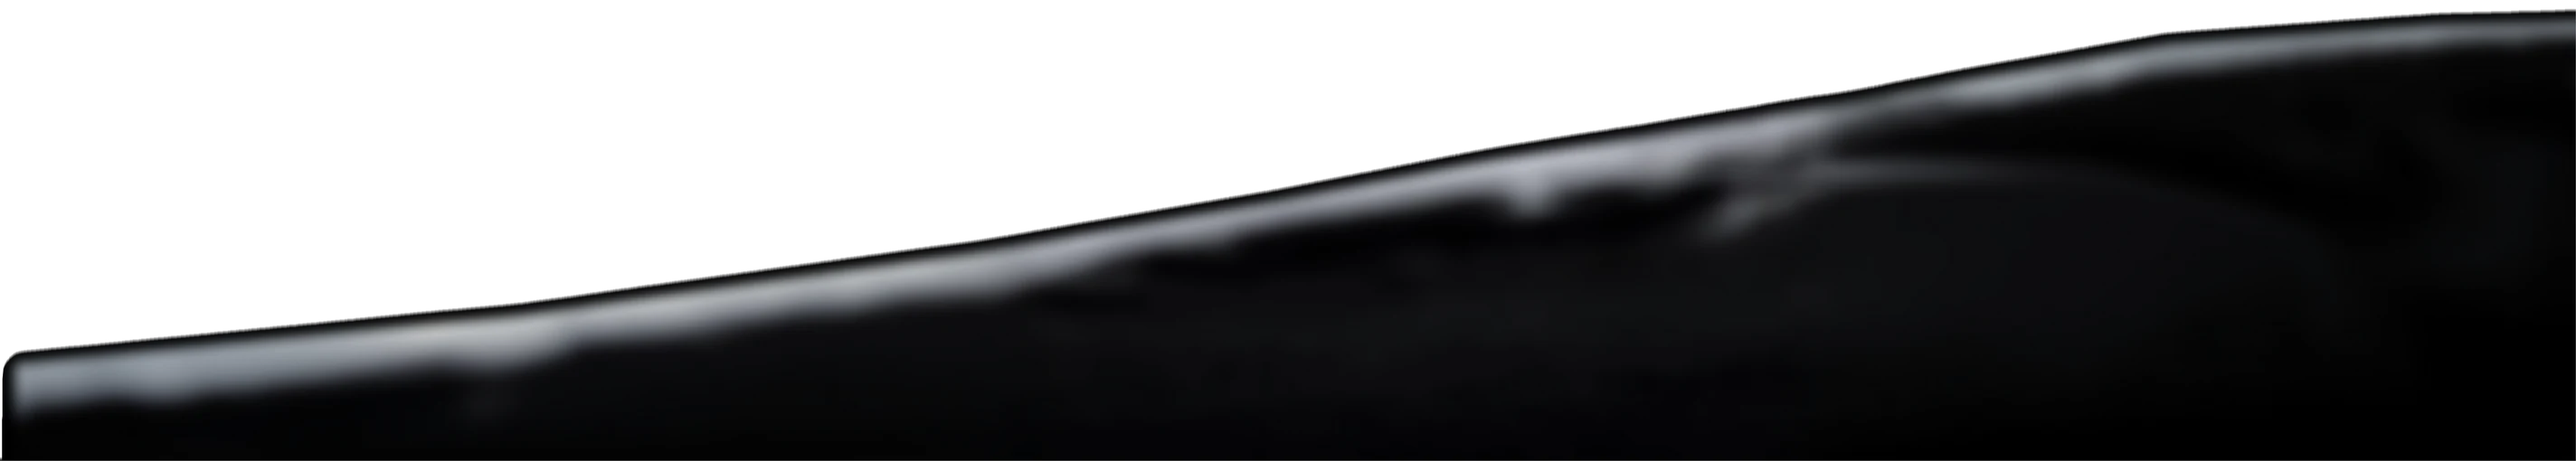
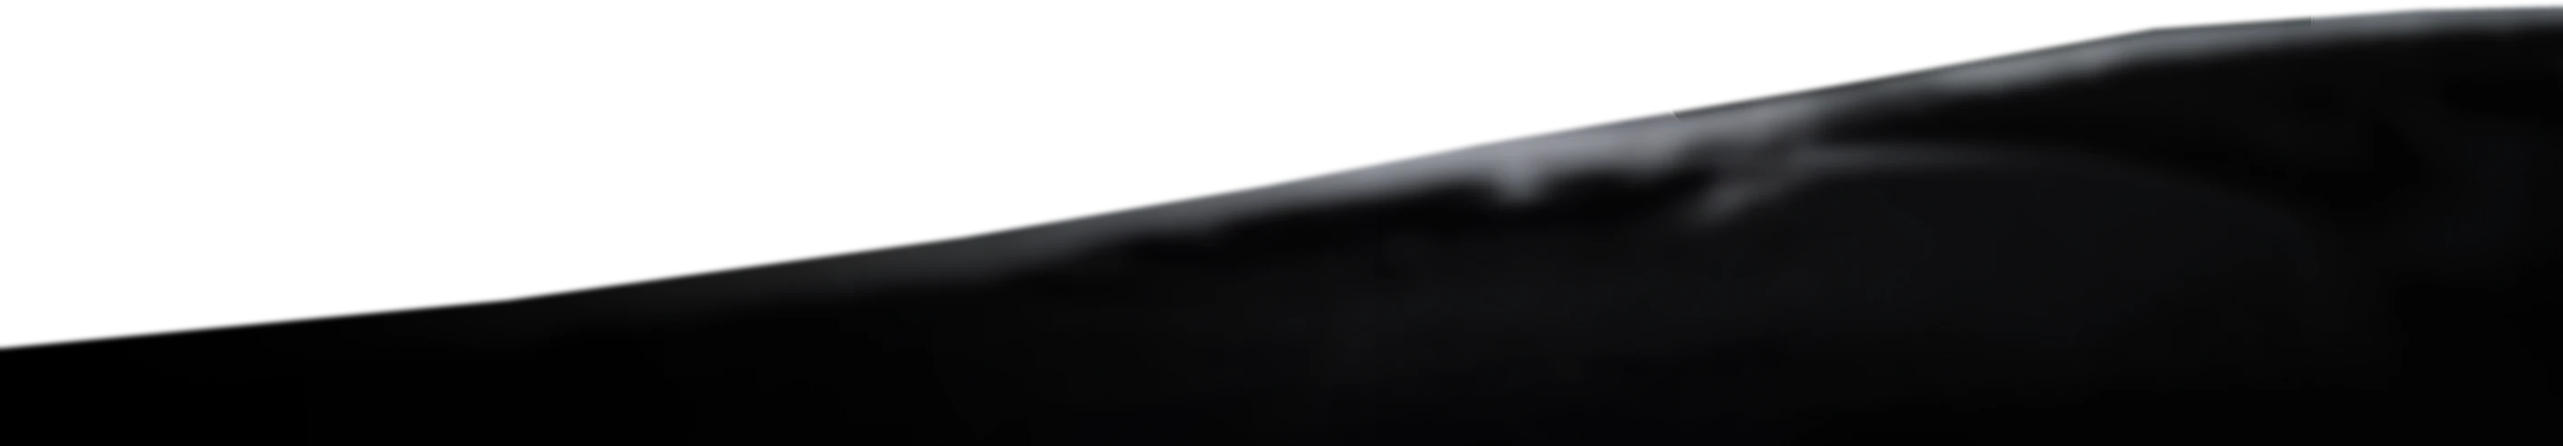
fix(axevil-newsletter): свет поверх письма, плавный край камня, лишняя подпись убрана
Три правки по замечаниям Татьяны к первому экрану.

Лучи света теперь выше письма. В макете слой «Свет 1» лежит поверх всего, но в
сцену-картинку он запечён под письмом, поэтому на экран планшета лучи не попадали.
Тот же слой добавлен вторым, уже над письмом, и обрезан самим экраном — снаружи
лучи в сцене уже есть, и второй раз накладывать их там не нужно. Режим наложения
screen, а не прозрачность: из Figma слой приходит полностью непрозрачным, это лучи
на чёрном фоне, и подмешивать его надо режимом, а не альфой — при screen чёрное не
даёт ничего, а светлое высветляет.

Тёмная полоса над камнем убрана вместе с причиной. Раньше слой камня собирался из
отдельного экспорта Figma, который приходил без прозрачности, и альфу приходилось
восстанавливать поиском границы по яркости. В части столбцов граница находилась
почти у верхнего края кадра — там и оставалась непрозрачная чернота.

Теперь слой собран из самой сцены плюс маска из макета: в узле есть готовый контур
гряды (Vector 1194234003), он растеризуется и становится альфа-каналом. Пиксели
берутся из того же файла, что и фон, поэтому совмещение точное по построению —
подбирать смещение перебором больше не нужно. Контур размыт на 6 px, чтобы край
переходил плавно, как в макете.

Подпись «Каждую среду полный выпуск на почте» убрана из макета письма: её низ
закрывает ближний камень, и читалась она наполовину. Мысль не потеряна — про среду
сказано и в подзаголовке первого экрана, и в маркере последнего выпуска под формой.
[…]

diff --git a/axevil-newsletter/src/pages/nl-sections/NLHero.tsx b/axevil-newsletter/src/pages/nl-sections/NLHero.tsx
@@ -9,6 +9,7 @@ import NLLeadForm from './NLLeadForm'
 const heroBg = asset('/img/newsletter/hero-bg.png')
 const heroScene = asset('/img/newsletter/hero-scene.webp')
 const heroRockFront = asset('/img/newsletter/hero-rock-front.webp')
+const heroLight = asset('/img/newsletter/hero-light.webp')
 
 /** Reusable fade-up config for staggered hero elements */
 function fadeUp(delay: number) {
@@ -76,19 +77,18 @@ function ProofLine({ className = '' }: { className?: string }) {
  * весь самодельный слой выброшен, а сцена взята картинкой.
  *
  * Слои и порядок:
- *   1. hero-scene.webp   — фон, камни, планшет, затемнение слева. Всё, кроме содержимого экрана.
- *   2. письмо            — живой компонент, вставлен в экран планшета.
- *   3. hero-rock-front.webp — ближний камень, лежит поверх письма и подрезает его снизу.
+ *   1. hero-scene.webp      — фон, камни, планшет, затемнение слева.
+ *   2. письмо               — живой компонент, вставлен в экран планшета.
+ *   3. hero-light.webp      — лучи света поверх письма, режимом screen, обрезаны экраном.
+ *   4. hero-rock-front.webp — ближний камень, лежит поверх письма и подрезает его снизу.
  *
  * Координаты взяты из макета, а не на глаз. В мокапе планшета есть слой «Image HERE» —
  * это область экрана: x 2126.89, y 347.54, 720.21×1029.92 в кадре 3190×1800, то есть
  * 66.674% / 19.308% / 22.577% / 57.218%. Соотношение сторон экрана 0.6993 практически
  * совпадает с письмом (370.5 / 529 = 0.700), поэтому письмо встаёт без искажений.
  *
- * Положение переднего камня найдено поиском совмещения: слой из Figma выгрузился без
- * прозрачности (сверху от гряды просто чёрное), альфа восстановлена по силуэту, а смещение
- * подобрано так, чтобы наложение камня на сцену её не меняло — средняя разница вышла 7.65
- * из 255, то есть пиксели совпали. Отсюда 1.066% / 68.472% / 98.887% / 31.389%.
+ * Передний камень и лучи света собраны из тех же исходников, что и сцена, — подробности у
+ * констант ROCK и в разметке слоя света.
  *
  * Сцена подставляется по правилу object-cover, но сам `object-fit: cover` тут не годится:
  * письмо надо позиционировать в процентах от картинки, а cover прячет, насколько её
@@ -107,8 +107,21 @@ const IPAD = { left: 65.456, width: 25.014 }
 /** Минимальный зазор от правого края окна до планшета, px. */
 const IPAD_MARGIN = 24
 
-/** Передний камень — доля от кадра сцены. */
-const ROCK = { left: 1.066, top: 68.472, width: 98.887, height: 31.389 }
+/**
+ * Передний камень — доля от кадра сцены, из рамки слоя «Камень перекрывающий» (51, 1252.71,
+ * 3435×646.07), обрезанной по правому и нижнему краю кадра.
+ *
+ * Сначала я собирала этот слой из отдельного экспорта Figma: он приходил без прозрачности,
+ * и альфу приходилось восстанавливать поиском границы по яркости. В части столбцов граница
+ * находилась почти у верхнего края кадра, и там оставалась непрозрачная чернота — та самая
+ * тёмная полоса над камнем.
+ *
+ * Теперь слой собран из самой сцены плюс маска из макета: в узле есть готовый контур гряды
+ * (Vector 1194234003), он растеризуется и становится альфа-каналом. Пиксели берутся из того
+ * же файла, что и фон, поэтому совмещение точное по построению — подбирать смещение больше
+ * не нужно. Контур размыт на 6 px, чтобы край переходил плавно, как в макете.
+ */
+const ROCK = { left: 1.599, top: 69.595, width: 98.401, height: 30.405 }
 
 /** Фон для мобильной вёрстки: там макета нет, остаётся прежняя фотография с параллаксом. */
 function MobileStone({ bgY }: { bgY: MotionValue<string> }) {
@@ -232,6 +245,32 @@ export default function NLHero() {
                 <NLLetterPreview scale={1} bare />
               </div>
             )}
+
+            {/* Лучи света поверх письма.
+                В макете слой «Свет 1» лежит выше всего, но в сцену-картинку он запечён под
+                письмом, поэтому на экран планшета лучи не попадали. Здесь тот же слой ложится
+                вторым, уже над письмом.
+
+                Режим screen, а не прозрачность: слой пришёл из Figma полностью непрозрачным —
+                это лучи на чёрном фоне, и его подмешивают режимом наложения, а не альфой.
+                При screen чёрное не даёт ничего, а светлое высветляет — ровно как в макете.
+
+                Картинка размером во всю сцену, поэтому её положение задано в долях от экрана
+                планшета: экран занимает 22.577% ширины кадра и начинается на 66.674%, значит
+                внутри экрана сцена шире в 100/22.577 раза и сдвинута на 66.674/22.577 влево.
+                Обрезает всё сам экран своим overflow — снаружи лучи уже есть в сцене, и
+                второй раз накладывать их там не нужно. */}
+            <img
+              src={heroLight} alt="" aria-hidden loading="eager"
+              className="absolute pointer-events-none max-w-none"
+              style={{
+                left: `${-SCREEN.left / SCREEN.width * 100}%`,
+                top: `${-SCREEN.top / SCREEN.height * 100}%`,
+                width: `${100 / SCREEN.width * 100}%`,
+                height: `${100 / SCREEN.height * 100}%`,
+                mixBlendMode: 'screen',
+              }}
+            />
           </motion.div>
 
           {/* Ближний камень поверх письма */}

diff --git a/axevil-newsletter/src/pages/nl-sections/NLLetterPreview.tsx b/axevil-newsletter/src/pages/nl-sections/NLLetterPreview.tsx
@@ -145,17 +145,10 @@ export default function NLLetterPreview({ scale = 1, bare = false }: { scale?: n
                 </div>
               </div>
 
-              <div
-                className="flex items-start justify-center w-full"
-                style={{ borderTop: `${s(0.538)}px solid #202020`, paddingTop: s(8.6) }}
-              >
-                <p
-                  className="font-inter-tight font-medium text-center whitespace-nowrap"
-                  style={{ fontSize: s(8.6), lineHeight: 1.3, color: 'var(--white-300)', letterSpacing: -s(0.172) }}
-                >
-                  Каждую среду полный выпуск на почте
-                </p>
-              </div>
+              {/* Здесь была подпись «Каждую среду полный выпуск на почте». Убрана: в сцене
+                  первого экрана низ письма закрывает ближний камень, и подпись читалась
+                  наполовину. Мысль не потеряна — про среду сказано и в подзаголовке первого
+                  экрана, и в маркере последнего выпуска под формой. */}
             </div>
           </div>
         </div>
